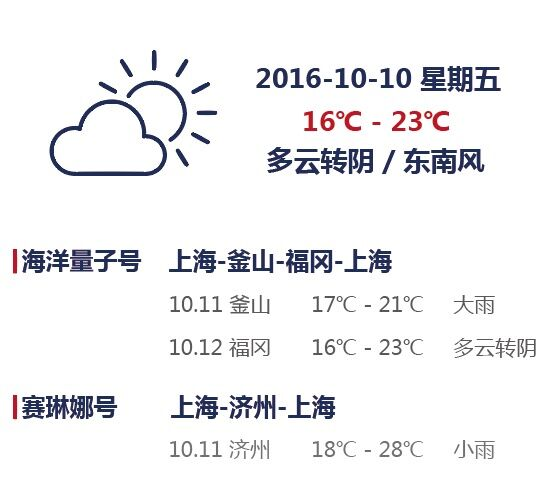
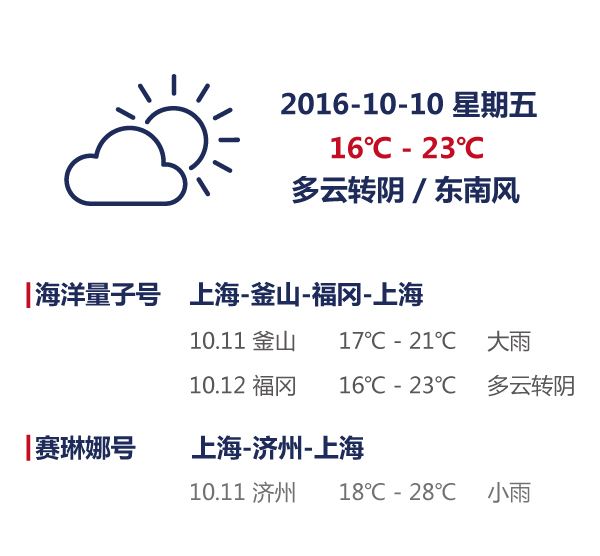
update

diff --git a/public/src/tpls/homepage.html b/public/src/tpls/homepage.html
@@ -59,10 +59,10 @@
 					<img src="../../src/image/query_1.jpg" style="width:360px;margin-left:20px;" />
 				</div>
 				<div id="query_2" class="query_d none">
-					<img src="../../src/image/query_2.jpg" style="width:340px;margin-left:30px;" />
+					<img src="../../src/image/query_2.jpg" style="width:340px;margin-left:30px;margin-top:50px" />
 				</div>
 				<div id="query_3" class="query_d none">
-					<img src="../../src/image/query_3.jpg" style="width:340px;margin-left:30px;margin-top:20px" />
+					<img src="../../src/image/query_3.jpg" style="width:370px;margin-left:10px;margin-top:10px" />
 				</div>
 				<div id="query_4" class="query_d none">
 					<ul class="query_service">

diff --git a/public/src/css/app.css b/public/src/css/app.css
@@ -398,13 +398,14 @@ h1 {
 }
 
 .query_service {
-	padding-left: 0;
+	padding-left: 25px;
+	padding-top: 23px;
 }
 
 .query_service li {
 	display: inline-block;
 	text-align: center;
-	width: 120px;
+	width: 110px;
 }
 
 .query_service p {
@@ -414,8 +415,8 @@ h1 {
 }
 
 .query_service .service_icon {
-	width: 50px;
-	margin-top: 20px;
+	width: 60px;
+	margin-top: 0px;
 }
 
 .home_service .service_icon {
